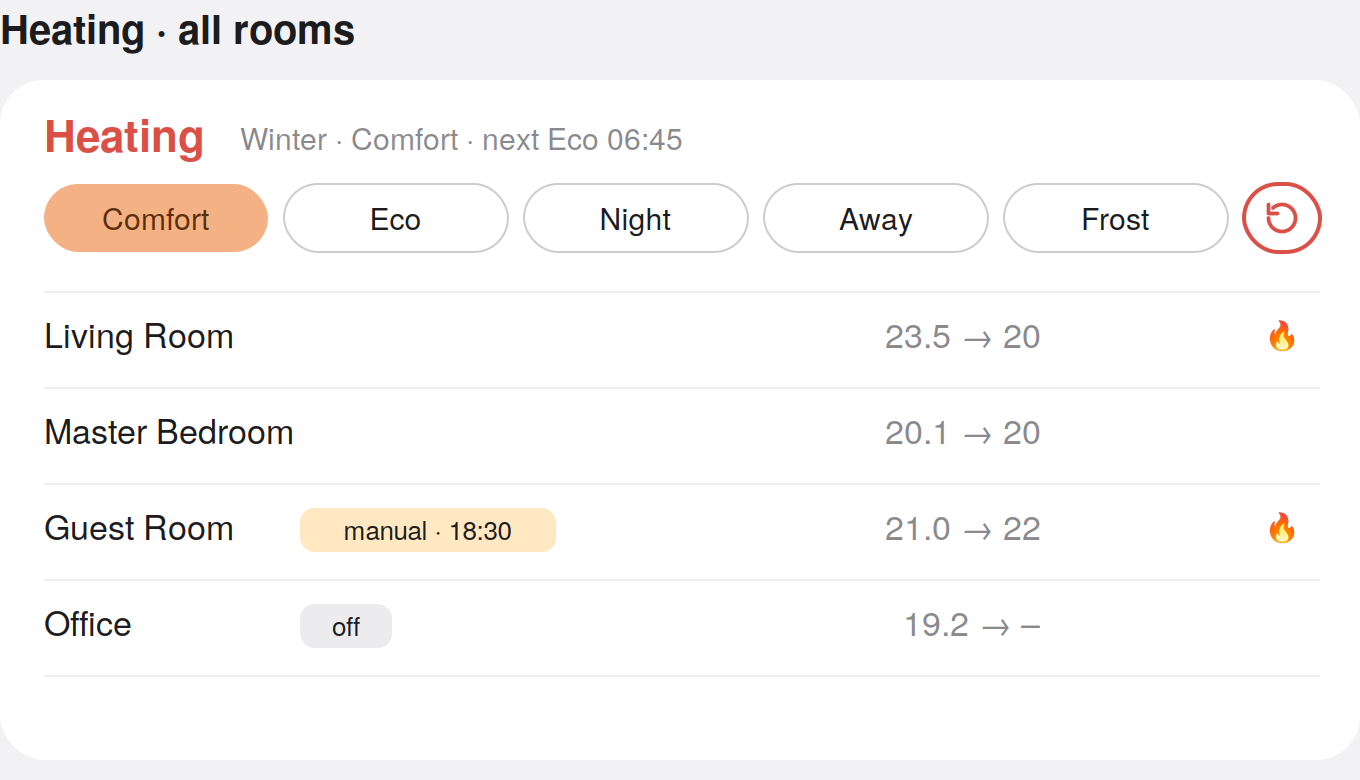
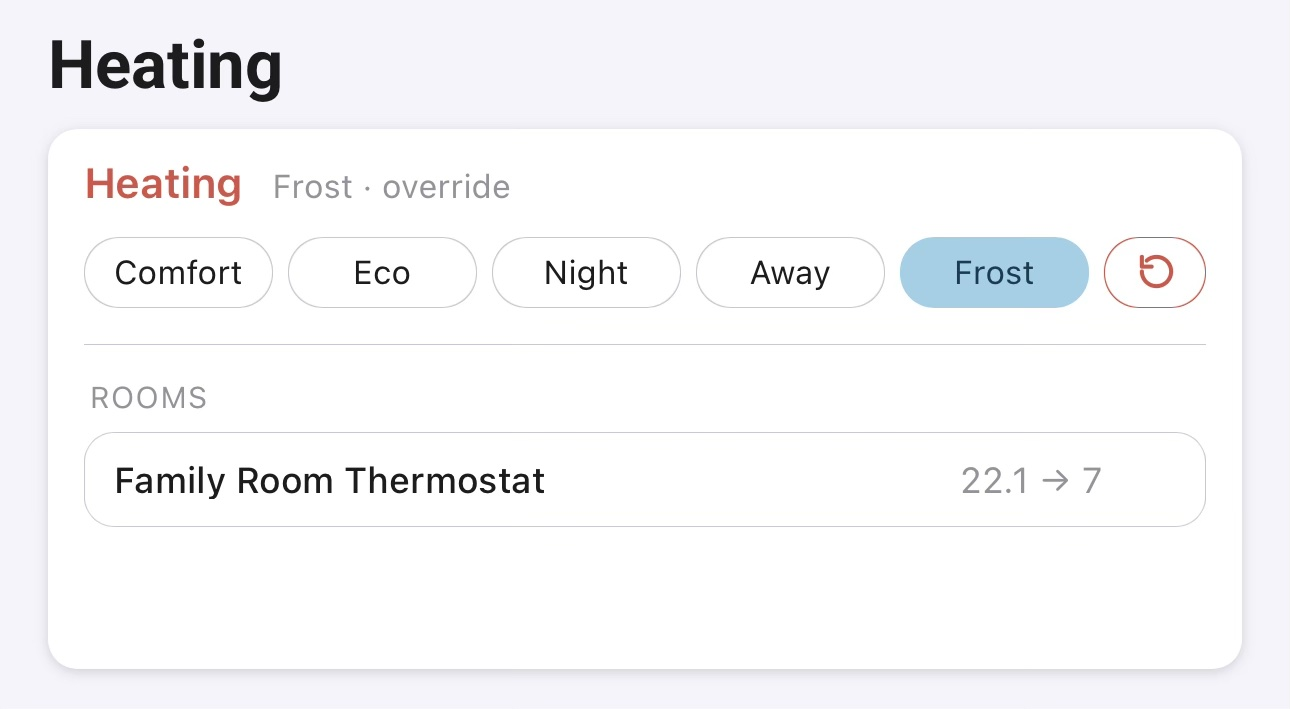
docs: heating & scenes screenshots, window-state gallery in README

diff --git a/README.md b/README.md
@@ -101,8 +101,16 @@ Three widgets for Homey Dashboards, each configurable per instance (which device
 
 | Scenes | Shutters | Heating |
 |---|---|---|
-| ![Scenes widget](docs/images/widget-scenes.png) | ![Shutters widget](docs/images/widget-shutters.png) | ![Heating widget](docs/images/widget-heating.png) |
-| Tiles with the scene's emoji; tap to run. Show all scenes or pick up to six. | Live-drawn windows: the sky follows the real time of day (dawn, day, golden hour, night), the curtain follows position, the slat gaps follow tilt (sky visible through open slats), a ceiling pendant glows when a lamp in that room is on. Animates while the motor runs at each shutter's learned travel speed. Tap to select, then **Open / Shade / Close** — with nothing selected the buttons act on all shown shutters. | Current profile and next switch, profile chips to override, a resume button, and one row per room with temperature → target, a flame while heating and manual/off tags. |
+| ![Scenes widget (screenshot)](docs/images/widget-scenes.png) | ![Shutters widget (screenshot)](docs/images/widget-shutters.png) | ![Heating widget (screenshot)](docs/images/widget-heating.png) |
+| Tiles with the scene's emoji; tap to run. Show all scenes or pick up to six. | Live-drawn windows (real screenshot): the sky follows the time of day (dawn, day, golden hour, night), the curtain follows position, the slat gaps follow tilt (sky visible through open slats), a ceiling pendant lights up when a lamp in that room is on. Tap to select, then Open / Shade / Close. Animates while the motor runs at each shutter's learned travel speed. Tap to select, then **Open / Shade / Close** — with nothing selected the buttons act on all shown shutters. | Current profile and next switch, profile chips to override, a resume button, and one row per room with temperature → target, a flame while heating and manual/off tags. |
+
+#### How to read a window
+
+![Window states](docs/images/window-states.png)
+
+Rows: the sky at dawn, day, dusk and night (from Homey's sunrise/sunset). Columns: open, closed (88° = slats shut),
+half down, closed with slats flat (0° — the sky shows through the slats), half down with slats mid-way, and a room
+lamp on (pendant lit, light cone over the window).
 
 ### Roadmap — widgets under consideration
 
